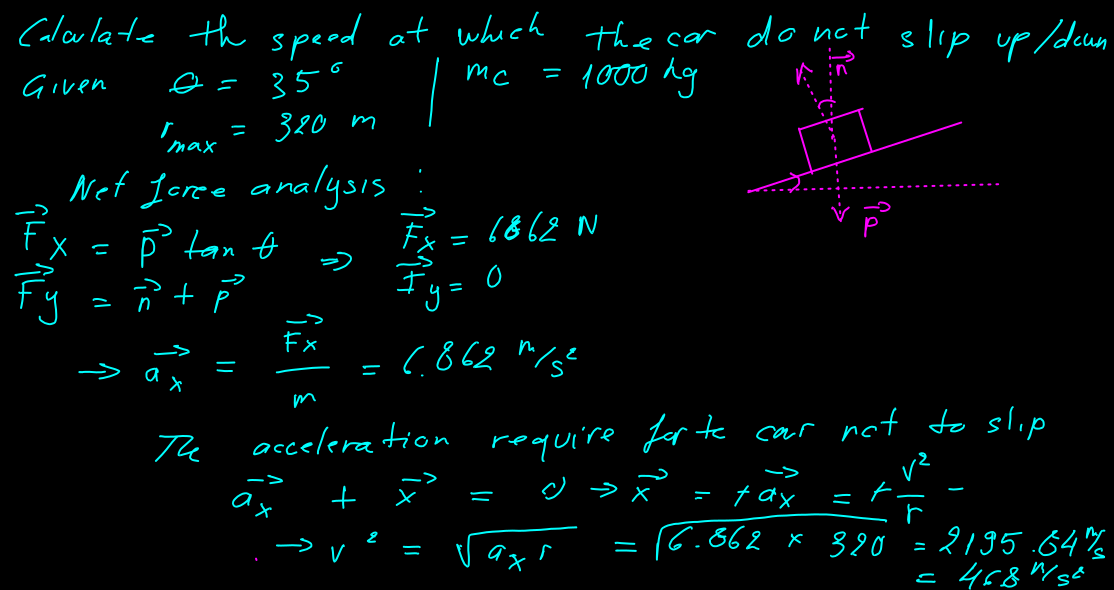
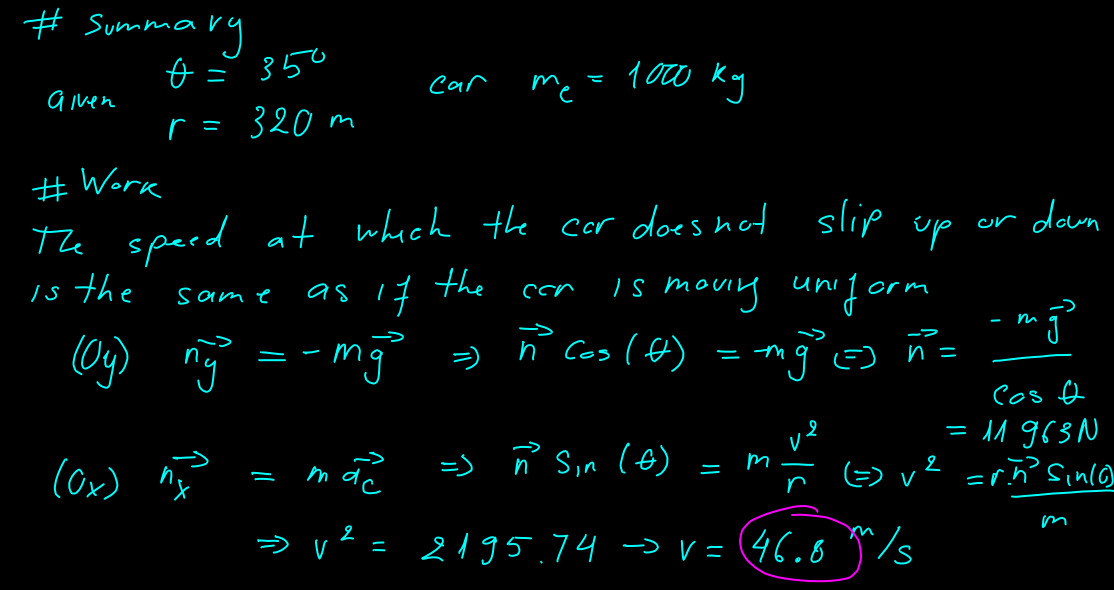
Update exam2 and lab4

diff --git a/lab4-circular.md b/lab4-circular.md
@@ -33,20 +33,6 @@
 
 ### Question 7
 
-> A bicycle is turned upside down while its owner repairs a flat tire. A friend spins the other wheel and observes that drops of water fly off tangentially. She measures the heights reached by drops moving vertically (Fig. P7.8). A drop that breaks loose from the tire on one turn rises vertically 54.0 cm above the tangent point. A drop that breaks loose on the next turn rises 51.0 cm above the tangent point. The radius of the wheel is 0.381 m. 
-
-<p align="center">
-  <IMG src="./assets/lab4-circular/q7.jpeg" alt="image7" width=40%/>
-</p>
-
-(a) Why does the first drop rise higher than the second drop? 
-
-
-
-(b) Neglecting air friction and using only the observed heights and the radius of the wheel, find the wheel’s angular acceleration (assuming it to be constant).
-
-### Question 8
-
 > A machine part rotates at an angular speed of 0.06 rad/s; its speed is then increased to $2.2 \frac{rad}{s}$ at an angular acceleration of $0.70 \frac{rad}{s^2}$. 
 
 (a) Find the angle through which the part rotates before reaching this final speed. 
@@ -61,6 +47,64 @@
   <IMG src="./assets/lab4-circular/q8b.jpeg" alt="q8b" width=100%/>
 </p>
 
+### Question 8
+
+> A bicycle is turned upside down while its owner repairs a flat tire. A friend spins the other wheel and observes that drops of water fly off tangentially. She measures the heights reached by drops moving vertically (Fig. P7.8). A drop that breaks loose from the tire on one turn rises vertically 54.0 cm above the tangent point. A drop that breaks loose on the next turn rises 51.0 cm above the tangent point. The radius of the wheel is 0.381 m. 
+
+<p align="center">
+  <IMG src="./assets/lab4-circular/q7.jpeg" alt="image7" width=40%/>
+</p>
+
+> [!NOTE]
+> This problem requires the use of circular form of [`eq(3)`](./w4-circular.md#rotation-motion-under-constant-angular-accleration) in the laws of motion and the understanding of [law of energy conservation](./w5-work.md#energy-conservation)
+
+(a) Why does the first drop rise higher than the second drop? 
+
+> There is a negative difference in the first the second drop is due to the loss in the speed of the wheel or the wheel is slowing down results in lower kinetic energy
+
+(b) Neglecting air friction and using only the observed heights and the radius of the wheel, find the wheel’s angular acceleration (assuming it to be constant)
+
+<p align="center">
+  <IMG src="./assets/lab4-circular/q7b.jpeg" alt="q7b" width=100%/>
+</p>
+
+<details>
+  <summary><b>Solution</b></summary>
+  <p align="center">
+    <IMG src="./assets/lab4-circular/q7sol.jpeg" alt="alt-text" width=70%/>
+  </p>
+</details>
+
+## 7.4 Centripetal Acceleration
+
+### Question 19
+
+> One end of a cord is fixed and a small 0.500 kg object is attached to the other end, where it swings in a section of a vertical circle of radius u 2.00-m, as shown in Figure P7.19. When $\theta = 20.0\textdegree$, the speed of the object is 8.00 m/s. At this instant.
+
+<p align="center">
+  <IMG src="./assets/lab4-circular/q19.jpeg" alt="q19" width=35%/>
+</p>
+
+(a) the tension in the string, 
+
+<p align="center">
+  <IMG src="./assets/lab4-circular/q19a.jpeg" alt="q19a" width=100%/>
+</p>
+
+(b) the tangential and radial components of acceleration, and 
+(c) the total acceleration 
+
+<p align="center">
+  <IMG src="./assets/lab4-circular/q19b.jpeg" alt="q19b" width=100%/>
+</p>
+
+(d) Is your answer changed if the object is swinging down toward its lowest point instead of swinging up? 
+
+> There would be __No change__ even if the object swinging down instead of of swinging up
+
+(e) Explain your answer to part (d).
+
+> When the object swinging down its gaining speed and vice versa however both the `tangential acceleration` and `radical acceleration` stays the same in both cases
 
 
 

diff --git a/w7-momentum.md b/w7-momentum.md
@@ -8,15 +8,15 @@
 
 $$\mathcal{P_x} = m \mathcal{v_x} \text{ and } \mathcal{P_y} = m  \mathcal{v_y}$$
 
-* __Linear momentum__ of an object of mass $m$ is defined as
+__Linear momentum__ of an object of mass $m$ is defined as
 
 $$\vec{P} = m \vec{v}$$
 
-* __Newton's second low and momentum__
+__Newton's second low and momentum__
 
   $$\vec{F_{net}} = m \vec{a} = m \frac{\Delta \vec{v}}{\Delta t} = \frac{\Delta (m \vec{v})}{\Delta t}$$
 
-  * Thus $\vec{F_{net}} = \frac{\Delta \vec{p}}{\Delta t}$ 
+Thus $\vec{F_{net}} = \frac{\Delta \vec{p}}{\Delta t}$ 
 
 #### Conservation of Momentum
 
@@ -30,7 +30,7 @@ $$\bf{m_1 \vec{V_{1i}} + m_2 \vec{V_{2i}} = m_1 \vec{V_{1 \mathord{\mathit{f}}}}
 
 ### Impulse
 
-* __Impulse__ of a force delivered to an object is equal to the `product` of the force and the `time interval` during which the force act
+__Impulse__ of a force delivered to an object is equal to the `product` of the force and the `time interval` during which the force act
 
   $$\vec{I} = \vec{F} \Delta t$$
 

diff --git a/exam2/README.md b/exam2/README.md
@@ -6,6 +6,10 @@
 
 > A racetrack has $\theta = 350$ banked curves with the maximum radius of 320 m as shown in the below figure. If the car negotiates the curve too slowly, it tends to slip down the incline of the turn, whereas if it is going too fast, it may begin to slide up the incline. The car mass is 1000 Kg.
 
+<p align="center">
+  <IMG src="./assets/q11.png" alt="q1" width=40%/>
+</p>
+
 #### i. Section a
 
 Find the speed of the car on this banked so the car will not tend to slop down or slide up the incline

diff --git a/w5-work.md b/w5-work.md
@@ -44,9 +44,9 @@ During this same time the spring has done exactly the same amount of work, but t
   <IMG src="./assets/w5-work/15.jpg" alt="graph" width=50%/>
 </p>
 
-$$F_app = -(- kx) = kx$$
+$$F_{app} = -(- kx) = kx$$
 
-$$W_{F_app} = \frac{1}{2} kx^2_max$$
+$$W_{F_{app}} = \frac{1}{2} kx^2_{max}$$
 
 ## Kinetic Energy and the Work-Energy Theorem
 
